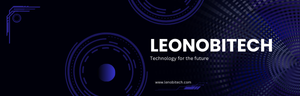
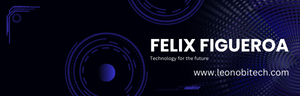
fix: rebranding

Changed region(s): [[0.51, 0.375, 0.96, 0.5625], [0.63, 0.7188, 0.99, 0.8125], [0.51, 0.8438, 0.66, 0.875]]

diff --git a/app/contact/page.tsx b/app/contact/page.tsx
@@ -5,7 +5,7 @@ import { Button } from "@/components/ui/button";
 import {
   Card,
   CardContent,
-  CardDescription,
+  //CardDescription,
   //CardFooter,
   CardHeader,
   CardTitle,
@@ -45,21 +45,18 @@ export default function ContactPage() {
   return (
     <div className="container mx-auto px-4 py-8">
       <section className="text-center mb-10">
-        <h1 className="text-2xl font-bold mb-4">
-          Hi there! I&apos;m Felix Figueroa.
-        </h1>
-        <p className=" text-xl text-gray-700 dark:text-gray-500 ">
-          Need assistance, have a question, or want to collaborate? I&apos;d
-          love to hear from you!
+        <h3 className="text-2xl font-bold mb-4">
+          Need assistance, have a question, or want to collaborate?
+        </h3>
+        <p className=" text-lg text-gray-700 dark:text-gray-500 ">
+          I&apos;d love to hear from you...fill out the form below and I&apos;ll
+          get back to you as soon as possible..!
         </p>
       </section>
       <Card className="max-w-lg mx-auto border-hidden custom-shadow">
         <CardHeader>
           <CardTitle>Send us a message</CardTitle>
-          <CardDescription>
-            Fill out the form below and we&apos;ll get back to you as soon as
-            possible.
-          </CardDescription>
+          {/* <CardDescription>I&apos;d love to hear from you..!</CardDescription> */}
         </CardHeader>
         <CardContent>
           <form onSubmit={handleSubmit} className="space-y-4">

diff --git a/components/Footer.tsx b/components/Footer.tsx
@@ -68,12 +68,12 @@ export default function Footer() {
                 className="font-bold text-3xl bg-clip-text text-transparent bg-gradient-to-r from-blue-600 to-pink-600 dark:from-pink-600 dark:to-purple-600 hover:scale-105 
                  transition-colors duration-300 ease-out"
               >
-                Leonobitech
+                Felix Figueroa
               </span>
             </Link>
-            <div className="text-sm  ml-14 -translate-y-4 text-gray-600 font-bold">
+            {/* <div className="text-sm  ml-14 -translate-y-4 text-gray-600 font-bold">
               by Felix Figueroa
-            </div>
+            </div> */}
             <p className="text-gray-600 dark:text-gray-300 mb-6">
               Empower your business with AI agents, boost productivity and say
               goodbye to repetitive tasks to focus on what truly matters.

diff --git a/app/layout.tsx b/app/layout.tsx
@@ -23,8 +23,8 @@ const interSans = localFont({
 
 export const metadata: Metadata = {
   title: {
-    template: "%s | Leonobitech",
-    default: "Leonobitech | Felix Figueroa",
+    template: "%s | Felix Figueroa",
+    default: "Felix Figueroa",
   },
   description:
     "Boost productivity with AI automation: streamline workflows, eliminate repetitive tasks, and enhance engagement using AI agents/chatbots, predictive analytics, and ML. Drive data-driven decisions.",

diff --git a/app/podcasts/page.tsx b/app/podcasts/page.tsx
@@ -288,7 +288,7 @@ export default function PodcastPlayer() {
   return (
     <div className="container mx-auto px-4 py-8">
       <h1 className="text-4xl text-center font-bold mb-4">
-        Welcome to Leonobitcast
+        Welcome to Felix&apos;s Podcasts
       </h1>
       <p className="text-center text-gray-600 dark:text-gray-300 mb-8 max-w-2xl mx-auto">
         A podcast where we dive into the most exciting topics in technology, AI,

diff --git a/components/Sidebar/_3/SidebarFooter/UserInfo.tsx b/components/Sidebar/_3/SidebarFooter/UserInfo.tsx
@@ -14,10 +14,10 @@ export function UserInfo({ state }: UserInfoProps) {
       )}
     >
       <span className="text-base font-semibold text-black dark:text-white truncate w-full">
-        Leonobitech
+        Felix Figueroa
       </span>
       <span className="text-sm dark:text-white/50 font-semibold truncate w-full">
-        By Felix Figueroa
+        Premium
       </span>
     </div>
   );

diff --git a/components/Sidebar/_3/SidebarFooter/UserProfile.tsx b/components/Sidebar/_3/SidebarFooter/UserProfile.tsx
@@ -11,7 +11,7 @@ export function UserProfile() {
             Felix Figueroa
           </h3>
           <p className="text-sm text-gray-600 dark:text-gray-400">
-            Leonobitech@gmail.com
+            info@leonobitech.com
           </p>
         </div>
       </div>
